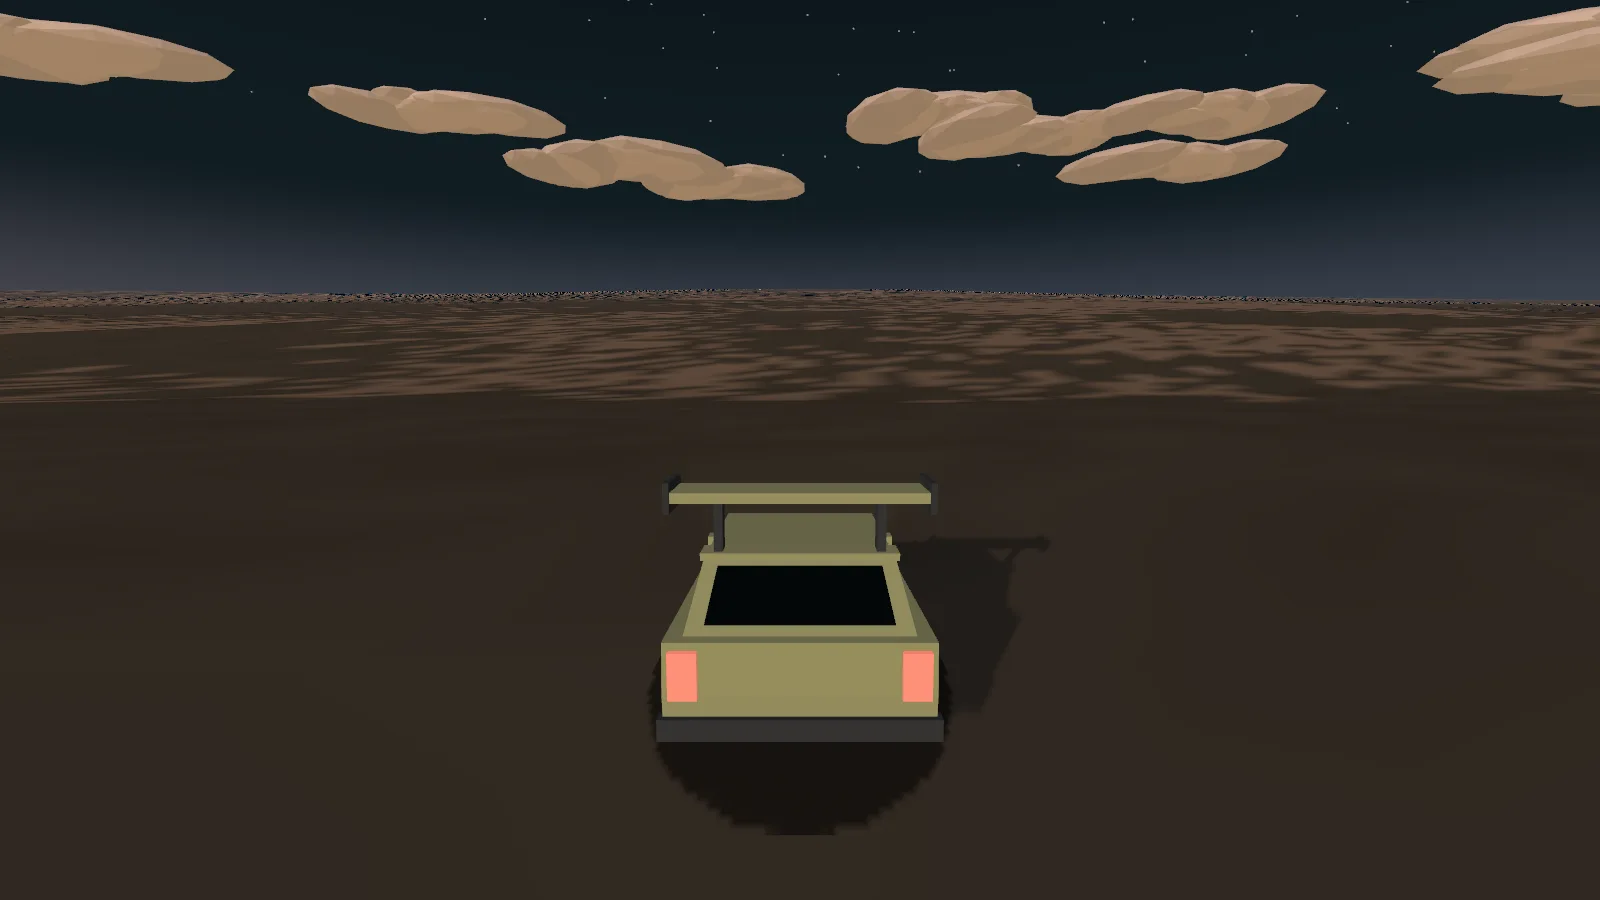
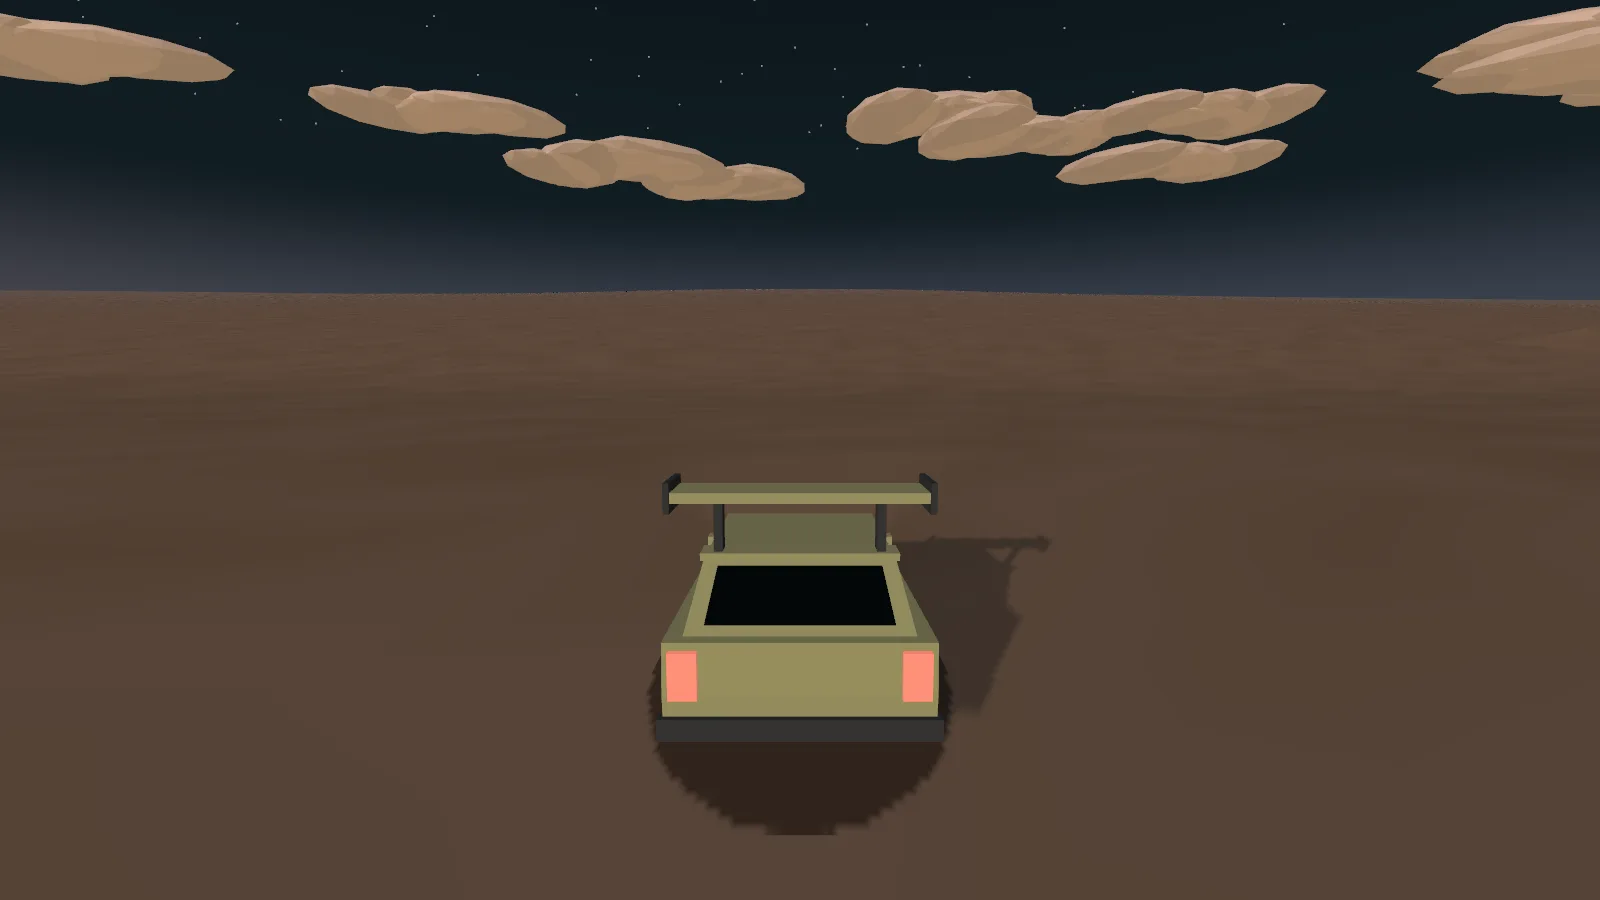
fix: dune sea in one sand tone, minimap shows the car
- Big dunes paints every zone as dune sand, so the world map and terrain read as dunes, not camouflage patches
- Minimap sizes its canvas on a world with no routes and draws the car arrow and north mark
- Dunes golden and menu pictures re-shot

diff --git a/src/worldgen/recipe.ts b/src/worldgen/recipe.ts
@@ -519,6 +519,7 @@ export const VOLCANO: Recipe = {
 };
 
 /** Slip faces at 0.52, which the crests' bend and the land under them steepen to 35 degrees at most, creased sharp at the brink: a crest is a natural jump and its face the landing. */
+const ONE_SAND = { cut: 0.5, above: Ground.DUNE, below: Ground.DUNE, soft: 0 };
 const SLIP: DuneFace = { grade: 0.52, brink: 4, toe: 24, floor: 60 };
 
 /**
@@ -541,7 +542,12 @@ export const BIG_DUNES: Recipe = {
     },
     { kind: "mask", radius: 3500, edge: 140, scale: 900, seed: 3, wobble: 0.3 },
   ],
-  biomes: { ...DESERT.biomes, limits: { ...DESERT.biomes.limits, scree: { up: 0.8, height: 10_000 }, rock: { up: 0.7, height: 10_000 }, snow_line: 10_000 } },
+  biomes: {
+    ...DESERT.biomes,
+    limits: { ...DESERT.biomes.limits, scree: { up: 0.8, height: 10_000 }, rock: { up: 0.7, height: 10_000 }, snow_line: 10_000 },
+    // One sand tone everywhere: the desert's second tone patches an 8 km sea into camouflage, and only the shading draws the dunes.
+    ground: { coast: ONE_SAND, meadow: ONE_SAND, forest: ONE_SAND, upland: ONE_SAND },
+  },
   road: { ...DESERT.road, straights: null, canyon: null, kickers: { road: 0, total: 0, big: 0 } },
   towns: { ...DESERT.towns, min: 0, max: 0 },
   landmarks: [],

diff --git a/src/hud/minimap.ts b/src/hud/minimap.ts
@@ -167,7 +167,7 @@ export class Minimap {
   // The road only changes with the race route and the theme is fixed per load, so the full map's road is stroked once per route and pixel ratio.
   private fit() {
     const ratio = devicePixelRatio;
-    if (ratio === this.ratio || !this.drawn) return;
+    if (ratio === this.ratio) return;
     this.ratio = ratio;
     const size = Math.round(MAP * ratio);
     this.canvas.width = size;
@@ -175,6 +175,8 @@ export class Minimap {
     this.road_layer = new OffscreenCanvas(size, size);
     const road = this.road_layer.getContext("2d");
     if (!road) throw new Error("minimap road layer has no 2d context");
+    // A world with no routes (the dune sea) still sizes the canvas: its map is the cars alone.
+    if (!this.drawn) return;
     road.scale(ratio, ratio);
     road.lineJoin = "round";
     road.strokeStyle = this.disc ? INK.faint : INK.road;
